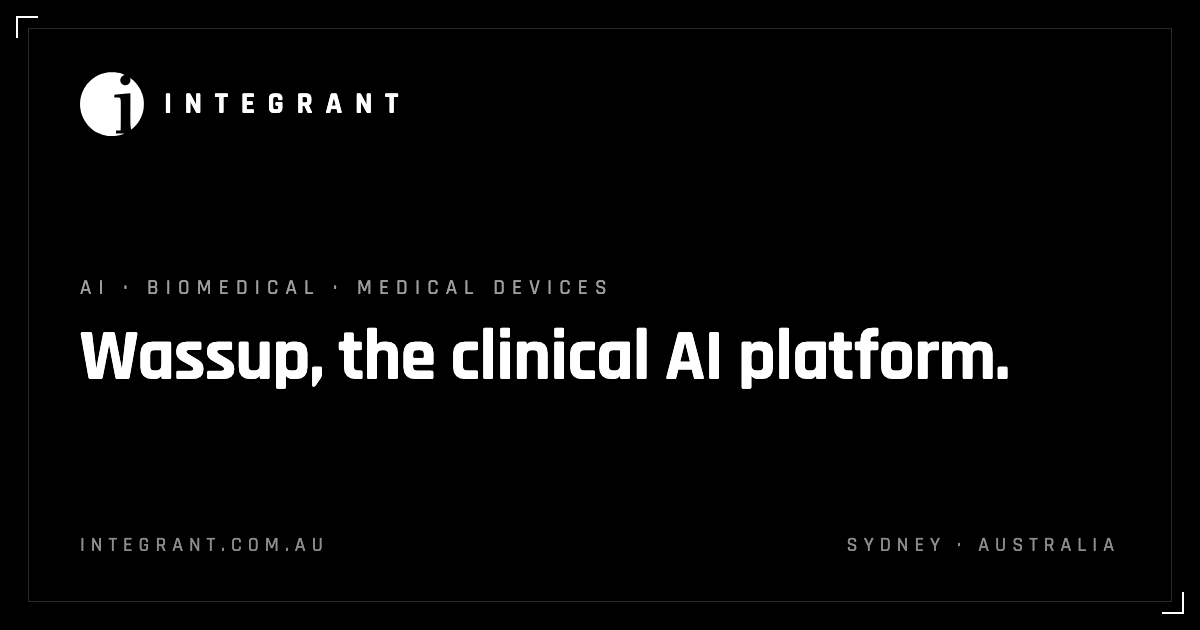
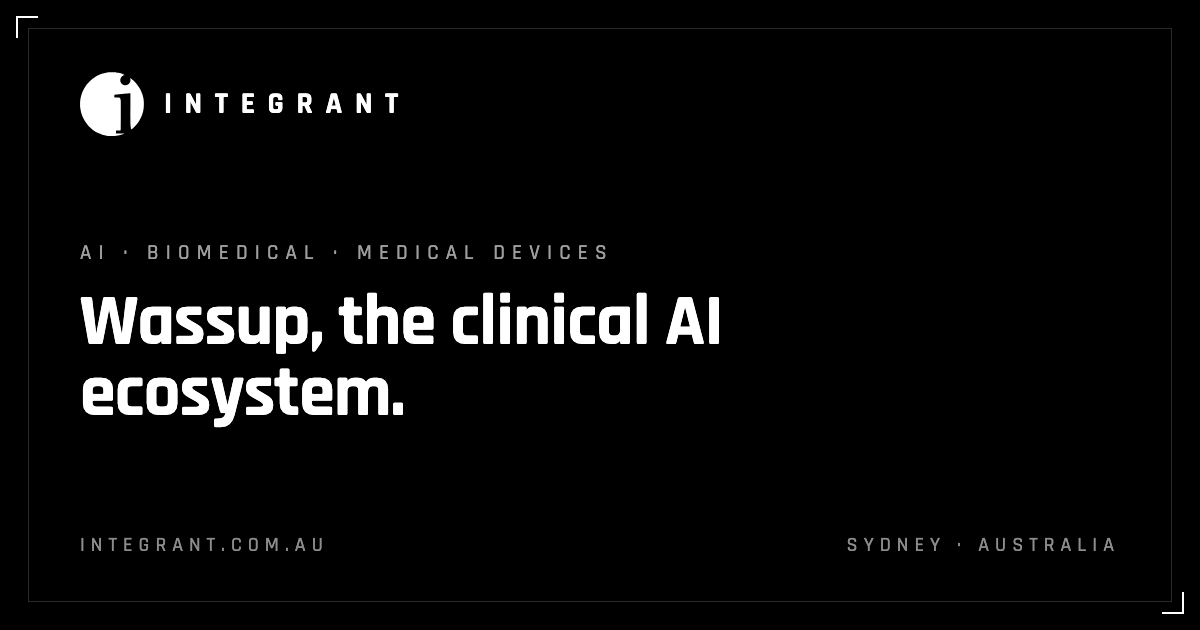
Present Wassup as an ecosystem of products
Wassup is the architecture the products are built on, so the site now
calls it an ecosystem and calls Secretary, Doc, First Opinion, Hive and
Genesis products rather than agents. Product roles now name the field
each one serves (practice reception, clinical documentation, medico-legal
reporting, clinical decision support, translational research).

diff --git a/src/data/innovation.ts b/src/data/innovation.ts
@@ -1,5 +1,5 @@
 // Innovation content — mirrors cms/schemas/innovationItem.ts. /innovation
-// leads with the Wassup platform, then the biomedical and device programmes.
+// leads with the Wassup ecosystem, then the biomedical and device programmes.
 //
 // Copy discipline (TGA + US pre-filing securities guidance) — hard rules:
 //   · function only, plus a plain status label: 'In use' or 'In development';
@@ -23,23 +23,23 @@ export interface WassupProduct {
   group: WassupGroup;
   status: WassupStatus;
   summary: string;
-  /** What the agent does — function language, one line each. */
+  /** What the product does — function language, one line each. */
   capabilities: string[];
-  /** The human-review principle for this agent, in a single sentence. */
+  /** The human-review principle for this product, in a single sentence. */
   principle: string;
 }
 
 export const WASSUP_PLATFORM = {
   name: 'Wassup',
-  heading: 'One platform. Five agents. A qualified person on every decision.',
-  body: 'Wassup is the Integrant clinical AI platform. Each agent takes on one demanding part of clinical, medico-legal or research work: answering the practice line, drafting the operation note, preparing an expert report, surfacing the right case at the point of decision, organising translational evidence. Every agent runs on the same foundation, so identity, audit, model access and human review are built once and shared by all of them.',
+  heading: 'One ecosystem. Five products. A qualified person on every decision.',
+  body: 'Wassup is the Integrant clinical AI ecosystem: one architecture, with products built on top of it. Each product takes on one demanding part of clinical, medico-legal or research work: answering the practice line, drafting the operation note, preparing an expert report, surfacing the right case at the point of decision, organising translational evidence. Every product runs on the same foundation, so identity, audit, model access and human review are built once and shared by all of them.',
 } as const;
 
-/** The layered architecture drawn in section 01: agents on a shared
+/** The layered architecture drawn in section 01: products on a shared
  *  foundation, under one governance layer. Design language from the
  *  platform blueprint — these describe the architecture, not certifications. */
 export const WASSUP_FOUNDATION = [
-  { label: 'Identity & access', detail: 'Role-based access for every user and agent' },
+  { label: 'Identity & access', detail: 'Role-based access for every user and service' },
   { label: 'Audit trail', detail: 'Every input, output and sign-off recorded' },
   { label: 'Model gateway', detail: 'One controlled route to every AI model' },
   { label: 'Prompt registry', detail: 'Versioned, reviewed instructions' },
@@ -50,30 +50,30 @@ export const WASSUP_FOUNDATION = [
 ] as const;
 
 export const WASSUP_GROUPS: { id: WassupGroup; label: string; lede: string }[] = [
-  { id: 'clinical', label: 'Clinical & practice', lede: 'Agents for the practice, the theatre and the medico-legal report.' },
-  { id: 'research', label: 'Research', lede: 'Agents for clinical decision support and translational research.' },
+  { id: 'clinical', label: 'Clinical & practice', lede: 'Products for the practice, the theatre and the medico-legal report.' },
+  { id: 'research', label: 'Research', lede: 'Products for clinical decision support and translational research.' },
 ];
 
 export const WASSUP_PRODUCTS: WassupProduct[] = [
   {
     slug: 'secretary',
     name: 'Wassup Secretary',
-    role: 'Practice voice agent',
+    role: 'Practice reception',
     group: 'clinical',
     status: 'In use',
-    summary: 'A voice and reception agent for the practice phone line. It answers every call, at any hour, and makes sure nothing urgent waits until morning.',
+    summary: 'An AI voice and reception service for the practice phone line. It answers every call, at any hour, and makes sure nothing urgent waits until morning.',
     capabilities: [
       'Answers the practice line around the clock and identifies the caller',
       'Records the reason for each call and takes post-operative and general messages',
       'Flags urgent calls and sends a text alert to the practice team',
       'Logs every call in a command centre for follow-up during practice hours',
     ],
-    principle: 'The agent takes the call; the practice team decides what happens next.',
+    principle: 'Wassup Secretary takes the call; the practice team decides what happens next.',
   },
   {
     slug: 'doc',
     name: 'Wassup Doc',
-    role: 'Clinical workflow agent',
+    role: 'Clinical documentation',
     group: 'clinical',
     status: 'In development',
     summary: 'Ambient clinical documentation for orthopaedic and regenerative-medicine practice. Wassup Doc turns the consultation or the case into structured, ready-to-sign records.',
@@ -88,7 +88,7 @@ export const WASSUP_PRODUCTS: WassupProduct[] = [
   {
     slug: 'first-opinion',
     name: 'Wassup First Opinion',
-    role: 'Medico-legal report agent',
+    role: 'Medico-legal reporting',
     group: 'clinical',
     status: 'In development',
     summary: 'Drafting support for independent medical expert reports. It works from the clinical record bundle and the letter of instruction to a report in the required court format.',
@@ -103,7 +103,7 @@ export const WASSUP_PRODUCTS: WassupProduct[] = [
   {
     slug: 'hive',
     name: 'Wassup Hive',
-    role: 'Decision support',
+    role: 'Clinical decision support',
     group: 'research',
     status: 'In development',
     summary: 'Real-time clinical decision support built on a de-identified record of surgical decisions, delivering relevant references to the clinician during the consult.',
@@ -117,7 +117,7 @@ export const WASSUP_PRODUCTS: WassupProduct[] = [
   {
     slug: 'genesis',
     name: 'Wassup Genesis',
-    role: 'Translational research engine',
+    role: 'Translational research',
     group: 'research',
     status: 'In development',
     summary: 'A structured decision engine for translational medicine. Genesis moves a research question from clinical problem to an organised evidence package through a staged reasoning cascade.',
@@ -131,24 +131,24 @@ export const WASSUP_PRODUCTS: WassupProduct[] = [
   },
 ];
 
-/** Section 04 — the governance design every agent inherits. Framed as
+/** Section 04 — the governance design every product inherits. Framed as
  *  "designed with reference to": design alignment, never certification. */
 export const WASSUP_GOVERNANCE = [
   { title: 'Australian privacy law', body: 'Designed around the Privacy Act 1988 and the Australian Privacy Principles, including APP 8 for any cross-border disclosure.' },
   { title: 'Breach readiness', body: 'Controls and records that support the Notifiable Data Breaches scheme.' },
   { title: 'Security controls', body: 'Designed with reference to ACSC Essential Eight guidance and ISO/IEC 27001 Annex A control themes.' },
   { title: 'Decision support only', body: 'Every clinical, legal or scientific output is decision support for a qualified professional to review and approve.' },
-  { title: 'Traceable outputs', body: 'Sources, versions, reviewers and sign-off recorded for every output an agent produces.' },
-  { title: 'Health record boundary', body: 'The platform does not connect to the My Health Record system.' },
+  { title: 'Traceable outputs', body: 'Sources, versions, reviewers and sign-off recorded for every output a product produces.' },
+  { title: 'Health record boundary', body: 'Wassup does not connect to the My Health Record system.' },
 ] as const;
 
-/** How every Wassup agent works — function language only. Icons are stroke
+/** How every Wassup product works — function language only. Icons are stroke
  *  paths for svg[data-draw]. */
 export const WASSUP_STEPS = [
   {
     index: '01',
     label: 'Capture',
-    copy: 'The agent takes in what the task needs: a call, theatre audio or case documents.',
+    copy: 'Wassup takes in what the task needs: a call, theatre audio or case documents.',
     icon: ['M 20 8 H 32 V 28 C 32 34, 20 34, 20 28 Z', 'M 14 24 C 14 36, 38 36, 38 24', 'M 26 36 V 44', 'M 18 44 H 34'],
   },
   {
@@ -166,7 +166,7 @@ export const WASSUP_STEPS = [
   {
     index: '04',
     label: 'Review & sign',
-    copy: 'Nothing is final until a qualified person reviews it. The agent drafts; the person decides.',
+    copy: 'Nothing is final until a qualified person reviews it. Wassup drafts; the person decides.',
     icon: ['M 8 34 C 14 24, 18 40, 24 30 C 30 20, 32 36, 38 28 C 41 24, 43 30, 46 27'],
   },
 ] as const;
@@ -179,7 +179,7 @@ export const RD_PROGRAMMES = [
   },
   {
     title: 'Clinical software',
-    body: 'The Wassup platform: software agents for clinicians, practices and research, each built around human review.',
+    body: 'The Wassup ecosystem: AI products for clinicians, practices and research, each built around human review.',
   },
   {
     title: 'Biologics',
